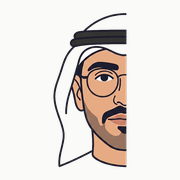
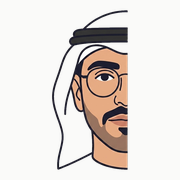
fix(brand): stop wiping the mark's colours in dark mode
The dark-mode variant selected pixels by darkness and desaturation, which
caught the agal, eyebrow, moustache, beard and eye as well as the outline.
Opaque near-white pixels went from 2,987 to 67,078 and the feature colours
#333333 and #1d1e30 vanished entirely, washing the face out.

No threshold fixes this. The ghutra is transparent negative space rather
than white fill (alpha 0 is 79.8% of the file), so on a dark ground the
headdress disappears whatever colour the linework is.

Ship one faithful mark instead and back it with --plate in dark mode, so
the transparent interior reads as paper and every original colour survives.
The nav now sizes the mark by height and lets width follow, rather than
forcing a square box around a half-face and paying for the empty columns.

Changed region(s): [[0.2778, 0.0556, 0.7222, 0.9444], [0.5833, 0.7222, 0.6667, 0.7778]]

diff --git a/test/assets-brand.test.js b/test/assets-brand.test.js
@@ -16,22 +16,18 @@ function pngInfo(path) {
   };
 }
 
+test('the recoloured dark-mode icon is gone; one faithful mark serves both themes', () => {
+  // Recolouring selected pixels by darkness, which caught the agal, eyebrow,
+  // moustache, beard and eye as well as the outline. Dark mode uses --plate
+  // behind the original artwork instead. See css/layout.css .nav-mark-icon.
+  assert.equal(existsSync(asset('assets/brand/logo-icon-dark.png')), false);
+});
+
 test('logo icon is square, RGBA, and reasonably sized', () => {
   const info = pngInfo(asset('assets/brand/logo-icon.png'));
   assert.equal(info.width, info.height, 'icon must be square');
   assert.ok(info.width >= 512, `icon too small: ${info.width}`);
   assert.equal(info.colourType, 6, 'icon must have an alpha channel');
-});
-
-test('a dark-mode nav icon exists, square and RGBA, alongside the light one', () => {
-  assert.ok(existsSync(asset('assets/brand/logo-icon-dark.png')), 'assets/brand/logo-icon-dark.png is missing');
-  const light = pngInfo(asset('assets/brand/logo-icon.png'));
-  const dark = pngInfo(asset('assets/brand/logo-icon-dark.png'));
-  assert.equal(dark.width, dark.height, 'dark icon must be square');
-  assert.equal(dark.colourType, 6, 'dark icon must have an alpha channel');
-  // Same crop and canvas as the light icon, so css/layout.css can swap one
-  // for the other with no layout shift — only the line art is recoloured.
-  assert.equal(dark.width, light.width, 'dark icon must match the light icon’s canvas size');
 });
 
 test('logo wordmark is transparent and wider than tall', () => {

diff --git a/css/layout.css b/css/layout.css
@@ -31,18 +31,17 @@
   font-weight: 600;
   font-size: var(--text-sm);
 }
-.nav-mark img { width: 2rem; height: 2rem; }
+/* The mark is a half-face: tall and narrow. Set its height and let the
+   width follow, rather than forcing a square box and paying for the empty
+   columns either side. */
+.nav-mark-icon {
+  height: 2.25rem;
+  width: auto;
+  background: var(--plate);
+  border-radius: 3px;
+  padding: 0 2px;
+}
 .nav-mark-name { white-space: nowrap; }
-
-/* The icon's line art is recoloured for dark mode (see
-   tools/process_brand.py's recolor_dark_lines): the source drawing keys
-   the ghutra's white cloth out as transparent negative space, so a dark
-   ground makes both that gap and the near-black outline disappear,
-   leaving only a floating skin-tone patch. Same on/off idiom as
-   .icon-sun/.icon-moon above. */
-.nav-icon-dark { display: none; }
-[data-theme="dark"] .nav-icon-light { display: none; }
-[data-theme="dark"] .nav-icon-dark { display: block; }
 
 .nav-links {
   margin-left: auto;

diff --git a/index.html b/index.html
@@ -75,8 +75,7 @@
 <header class="site-nav-wrap">
   <nav class="site-nav" aria-label="Main navigation">
     <a class="nav-mark" href="#main">
-      <img class="nav-icon-light" src="assets/brand/logo-icon.png" alt="" width="40" height="40" decoding="async">
-      <img class="nav-icon-dark" src="assets/brand/logo-icon-dark.png" alt="" width="40" height="40" decoding="async">
+      <img class="nav-mark-icon" src="assets/brand/logo-icon.png" alt="" width="883" height="883" decoding="async">
       <span class="nav-mark-name" data-nav-name></span>
     </a>
     <button class="nav-menu-toggle" aria-expanded="false" aria-controls="nav-links">

diff --git a/css/tokens.css b/css/tokens.css
@@ -46,6 +46,9 @@
   --accent: #a85a32;
   --accent-strong: #8f4a2c;
   --rule: #e2e2df;
+  /* Backing for artwork whose own white is transparent negative space.
+     None is needed on a light ground; see css/layout.css .nav-mark-icon. */
+  --plate: transparent;
 }
 
 [data-theme="dark"] {
@@ -56,6 +59,7 @@
   --accent: #e7ad87;
   --accent-strong: #f3cbb0;
   --rule: #2a2d3a;
+  --plate: #fafaf9;
 }
 
 /* The page is rendered by JavaScript, so js/theme.js always sets

diff --git a/tools/process_brand.py b/tools/process_brand.py
@@ -14,7 +14,6 @@ ASSETS = ROOT / "assets"
 
 SENTINEL = (255, 0, 255)
 GROUND = (250, 250, 249)  # --ground, for the opaque Apple touch icon
-INK_DARK = (0xE9, 0xE7, 0xE2)  # --ink in [data-theme="dark"], css/tokens.css
 
 
 def key_background(path, thresh=30, feather=0.8):
@@ -44,7 +43,17 @@ def trim(im):
     return im.crop(bbox) if bbox else im
 
 
-def center_square(im, pad_ratio=0.08):
+def center_square(im, pad_ratio=0.06):
+    """Centre the artwork on a square canvas sized to its long edge.
+
+    The drawing is a half-face, so it is tall and narrow: roughly 373 by
+    784 after trimming. On a square canvas it therefore fills its height
+    but only about 41% of its width, and about 20% of the canvas area.
+    That is inherent to the subject, not a packing bug — a square canvas
+    is required for the favicon slots. Consumers that do not need a square
+    (the nav) should set height and let width follow, rather than forcing
+    a square box and paying for the empty columns.
+    """
     im = trim(im)
     w, h = im.size
     side = int(round(max(w, h) * (1 + pad_ratio * 2)))
@@ -53,51 +62,9 @@ def center_square(im, pad_ratio=0.08):
     return canvas
 
 
-def recolor_dark_lines(icon, low=0.30, high=0.45, chroma_lo=0.30, chroma_hi=0.50, ink=INK_DARK):
-    """Remap the icon's dark navy line art to the dark theme's ink colour,
-    leaving skin and beard tones untouched.
-
-    About 80% of the source canvas is alpha 0: the ghutra's white cloth is
-    drawn as transparent negative space, not a white fill, so it reads
-    correctly against a light ground but disappears into a dark one. Worse,
-    the near-black line art that outlines the face and headband also nearly
-    vanishes against a dark ground (roughly 1.1:1), leaving only the opaque
-    skin-tone patch afloat with no linework to define it.
-
-    Pixels are selected by how dark and desaturated they are rather than by
-    exact colour match, since the art is anti-aliased: a hard threshold
-    would leave a visible hard edge around every stroke. Weight ramps
-    linearly from 1 (fully recoloured) at `low` lightness down to 0 at
-    `high`, and is additionally suppressed for anything with real chroma
-    (skin tones measure ~0.32 mean chroma here; the line art measures
-    ~0.05), so a hypothetical dark-but-saturated colour would not be pulled
-    in just for being dark.
-    """
-    arr = np.array(icon.convert("RGBA")).astype(float)
-    rgb = arr[:, :, :3]
-    alpha = arr[:, :, 3]
-
-    channel_max = rgb.max(axis=2)
-    channel_min = rgb.min(axis=2)
-    lightness = (channel_max + channel_min) / 2 / 255
-    chroma = (channel_max - channel_min) / 255
-
-    weight_lightness = np.clip((high - lightness) / (high - low), 0, 1)
-    weight_chroma = np.clip((chroma_hi - chroma) / (chroma_hi - chroma_lo), 0, 1)
-    weight = (weight_lightness * weight_chroma)[:, :, None]
-
-    ink_arr = np.array(ink, dtype=float)
-    new_rgb = rgb * (1 - weight) + ink_arr * weight
-    out = np.concatenate([new_rgb, alpha[:, :, None]], axis=2).astype("uint8")
-    return Image.fromarray(out, "RGBA")
-
-
 def main():
     icon = center_square(key_background(BRAND / "logo-icon-source.jpg"))
     icon.save(BRAND / "logo-icon.png")
-
-    icon_dark = recolor_dark_lines(icon)
-    icon_dark.save(BRAND / "logo-icon-dark.png")
 
     wordmark = trim(key_background(BRAND / "logo-wordmark-source.jpg"))
     wordmark.save(BRAND / "logo-wordmark.png")
@@ -116,7 +83,7 @@ def main():
     touch.paste(scaled, (0, 0), scaled)
     touch.save(ASSETS / "apple-touch-icon.png")
 
-    print(f"icon {icon.size}  icon-dark {icon_dark.size}  wordmark {wordmark.size}")
+    print(f"icon {icon.size}  wordmark {wordmark.size}")
 
 
 if __name__ == "__main__":
